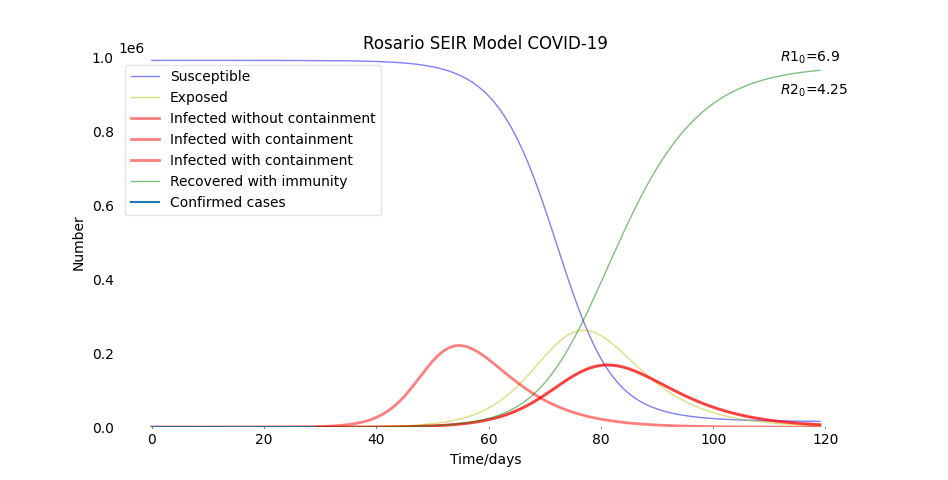
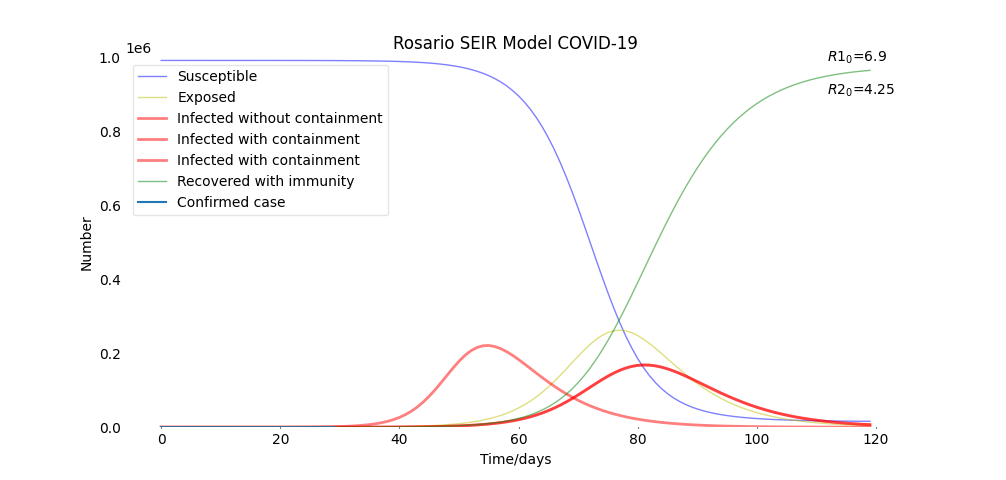
fix charts legends

diff --git a/SEIR-model/SEIR-model.py b/SEIR-model/SEIR-model.py
@@ -16,8 +16,8 @@ y_axis = 1000000
 x_axis = 120 
 
 # Zoom
-#y_axis = 100 
-#x_axis = 35 
+y_axis = 100 
+x_axis = 35 
 
 # Model parameters
 N = 992323
@@ -95,8 +95,8 @@ ax.plot( I1, 'r', alpha=0.5, lw=2, label='Infected without containment')
 ax.plot( I2, 'r', alpha=0.5, lw=2, label='Infected with containment')
 ax.plot( I2, 'r', alpha=0.5, lw=2, label='Infected with containment')
 ax.plot( R2, 'g', alpha=0.5, lw=1, label='Recovered with immunity')
-ax.plot( x, '-', label='Confirmed cases')
-#ax.plot( I2, 'o', color='red',label='Confirmed cases')
+ax.plot( x, '-', label='Confirmed case')
+ax.plot( I2, 'o', color='red',label='Free containment')
 
 ax.annotate("$R1_{0}$="+ ro1, xy=(0.9,0.99),xycoords='axes fraction', fontsize=10)
 ax.annotate("$R2_{0}$="+ ro2, xy=(0.9,0.9),xycoords='axes fraction', fontsize=10)
